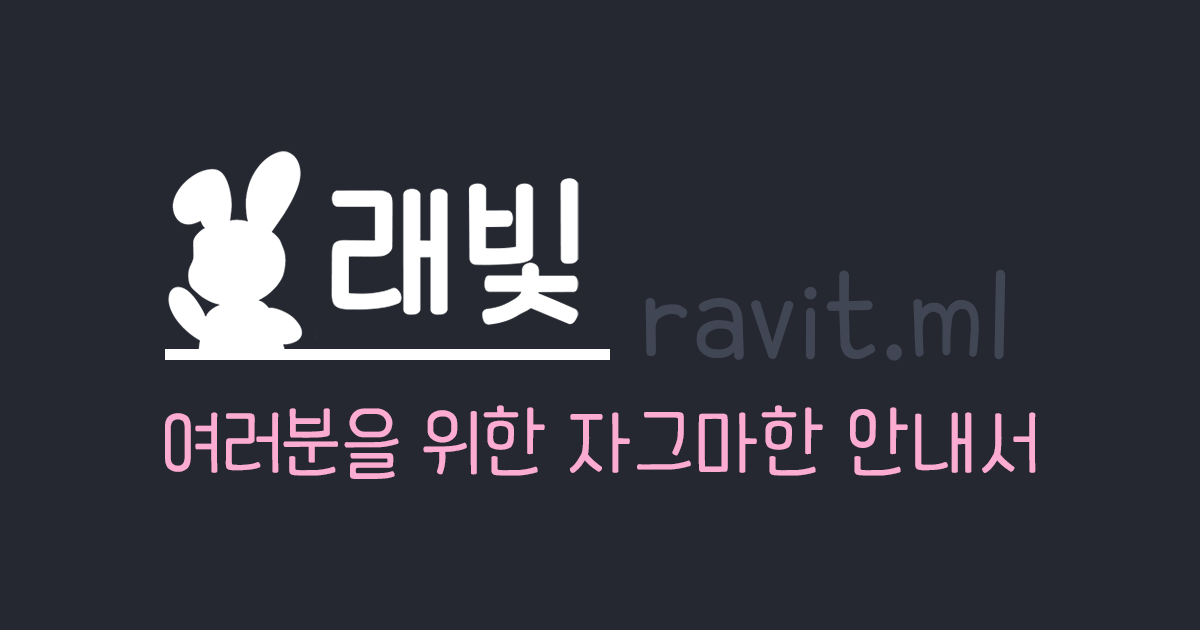
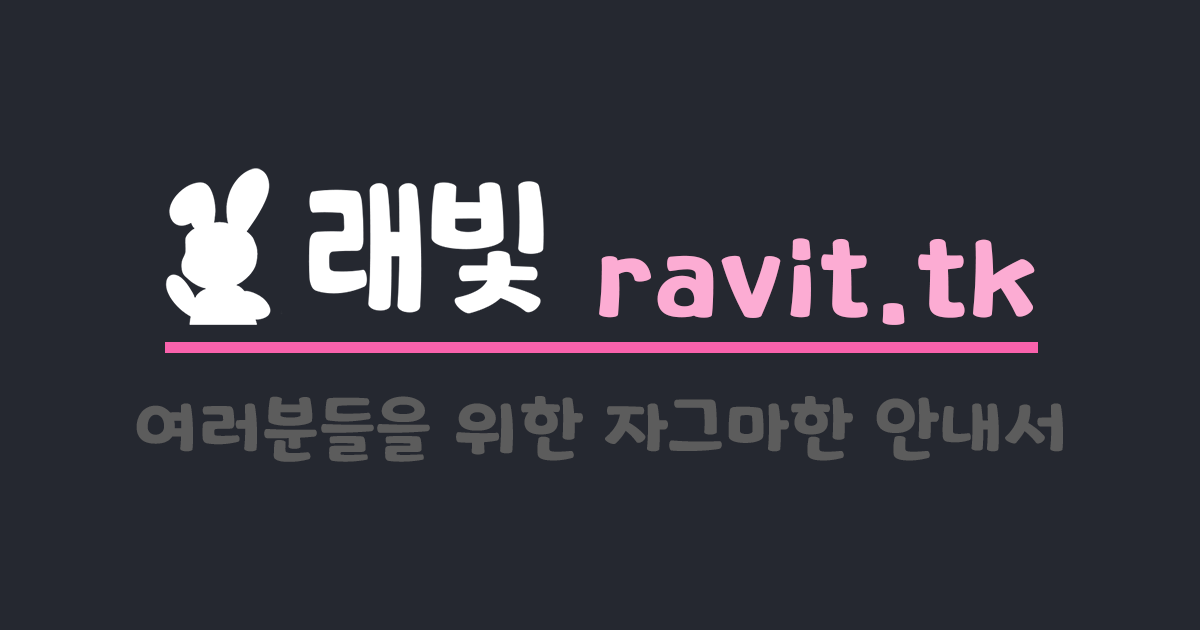
Redefined main URL to https://ravit.tk/, and 4 more...
1. Redefined main URL to https://ravit.tk/
2. Redesigned main logo and og:card
3. Removed 1 unused meta tag at index.html (google-site-verification)
4. Updated .gitignore
5. Added index_redirected.html (Same as index.html, but this page will be only used by HTTP 301 Redirections from old URL)

Changed region(s): [[0.1233, 0.2413, 0.8633, 0.573], [0.0925, 0.6333, 0.8942, 0.7841]]

diff --git a/index.html b/index.html
@@ -11,13 +11,12 @@
 		<!-- Bootstrap -->
 		<link href="css/bootstrap-4.4.1.css" rel="stylesheet">
 		
-		<meta name="viewport" content="width=device-width, initial-scale=1">
-		<meta name="google-site-verification" content="tS5vkK_QalGHgFkViv4NCSKkZWGNN3AWXqdMs-p75QE" />
+		<meta name="viewport" content="width=device-width, initial-scale=1" />
 
 		<meta property="og:title" content="래빛" />
 		<meta property="og:description" content="광운대학교에 입학하신 분들을 도와드리기 위한 안내서격 페이지입니다!" />
 		<meta property="og:image" content="./image/rabbitMainImage.png" />
-		<meta property="og:url" content="ravit.ml" />
+		<meta property="og:url" content="https://ravit.tk/" />
 		<meta property="og:type" content="website" />
 		<meta name="twitter:card" content="summary_large_image" />
 		<title>래빛: 여러분들을 위한 자그마한 안내서</title>

diff --git a/index_redirected.html b/index_redirected.html
@@ -17,7 +17,7 @@
 		<meta property="og:title" content="래빛" />
 		<meta property="og:description" content="광운대학교에 입학하신 분들을 도와드리기 위한 안내서격 페이지입니다!" />
 		<meta property="og:image" content="./image/rabbitMainImage.png" />
-		<meta property="og:url" content="ravit.ml" />
+		<meta property="og:url" content="https://ravit.tk/" />
 		<meta property="og:type" content="website" />
 		<meta name="twitter:card" content="summary_large_image" />
 		<title>래빛: 여러분들을 위한 자그마한 안내서</title>

diff --git a/404.html b/404.html
@@ -18,7 +18,7 @@ permalink: /404.html
 		<meta property="og:title" content="래빛" />
 		<meta property="og:description" content="광운대학교에 입학하신 분들을 도와드리기 위한 안내서격 페이지입니다!" />
 		<meta property="og:image" content="./image/rabbitMainImage.png" />
-		<meta property="og:url" content="ravit.ml" />
+		<meta property="og:url" content="https://ravit.tk/" />
 		<meta property="og:type" content="website" />
 		<meta name="twitter:card" content="summary_large_image" />
 

diff --git a/article_grades.html b/article_grades.html
@@ -14,7 +14,7 @@
 		<meta property="og:title" content="래빛" />
 		<meta property="og:description" content="광운대학교에 입학하신 분들을 도와드리기 위한 안내서격 페이지입니다!" />
 		<meta property="og:image" content="./image/rabbitMainImage.png" />
-		<meta property="og:url" content="ravit.ml" />
+		<meta property="og:url" content="https://ravit.tk/" />
 		<meta property="og:type" content="website" />
 		<meta name="twitter:card" content="summary_large_image" />
 

diff --git a/article_scholarship.html b/article_scholarship.html
@@ -14,7 +14,7 @@
 		<meta property="og:title" content="래빛" />
 		<meta property="og:description" content="광운대학교에 입학하신 분들을 도와드리기 위한 안내서격 페이지입니다!" />
 		<meta property="og:image" content="./image/rabbitMainImage.png" />
-		<meta property="og:url" content="ravit.ml" />
+		<meta property="og:url" content="https://ravit.tk/" />
 		<meta property="og:type" content="website" />
 		<meta name="twitter:card" content="summary_large_image" />
 

diff --git a/article_signingUp.html b/article_signingUp.html
@@ -14,7 +14,7 @@
 		<meta property="og:title" content="래빛" />
 		<meta property="og:description" content="광운대학교에 입학하신 분들을 도와드리기 위한 안내서격 페이지입니다!" />
 		<meta property="og:image" content="./image/rabbitMainImage.png" />
-		<meta property="og:url" content="ravit.ml" />
+		<meta property="og:url" content="https://ravit.tk/" />
 		<meta property="og:type" content="website" />
 		<meta name="twitter:card" content="summary_large_image" />
 

diff --git a/article_simpleTips.html b/article_simpleTips.html
@@ -14,7 +14,7 @@
 		<meta property="og:title" content="래빛" />
 		<meta property="og:description" content="광운대학교에 입학하신 분들을 도와드리기 위한 안내서격 페이지입니다!" />
 		<meta property="og:image" content="./image/rabbitMainImage.png" />
-		<meta property="og:url" content="ravit.ml" />
+		<meta property="og:url" content="https://ravit.tk/" />
 		<meta property="og:type" content="website" />
 		<meta name="twitter:card" content="summary_large_image" />
 

diff --git a/article_toGraduate.html b/article_toGraduate.html
@@ -14,7 +14,7 @@
 		<meta property="og:title" content="래빛" />
 		<meta property="og:description" content="광운대학교에 입학하신 분들을 도와드리기 위한 안내서격 페이지입니다!" />
 		<meta property="og:image" content="./image/rabbitMainImage.png" />
-		<meta property="og:url" content="ravit.ml" />
+		<meta property="og:url" content="https://ravit.tk/" />
 		<meta property="og:type" content="website" />
 		<meta name="twitter:card" content="summary_large_image" />
 

diff --git a/campusMap.html b/campusMap.html
@@ -14,7 +14,7 @@
 		<meta property="og:title" content="래빛" />
 		<meta property="og:description" content="광운대학교에 입학하신 분들을 도와드리기 위한 안내서격 페이지입니다!" />
 		<meta property="og:image" content="./image/rabbitMainImage.png" />
-		<meta property="og:url" content="ravit.ml" />
+		<meta property="og:url" content="https://ravit.tk/" />
 		<meta property="og:type" content="website" />
 		<meta name="twitter:card" content="summary_large_image" />
 

diff --git a/faq.html b/faq.html
@@ -14,7 +14,7 @@
 		<meta property="og:title" content="래빛" />
 		<meta property="og:description" content="광운대학교에 입학하신 분들을 도와드리기 위한 안내서격 페이지입니다!" />
 		<meta property="og:image" content="./image/rabbitMainImage.png" />
-		<meta property="og:url" content="ravit.ml" />
+		<meta property="og:url" content="https://ravit.tk/" />
 		<meta property="og:type" content="website" />
 		<meta name="twitter:card" content="summary_large_image" />
 

diff --git a/websites.html b/websites.html
@@ -14,7 +14,7 @@
 		<meta property="og:title" content="래빛" />
 		<meta property="og:description" content="광운대학교에 입학하신 분들을 도와드리기 위한 안내서격 페이지입니다!" />
 		<meta property="og:image" content="./image/rabbitMainImage.png" />
-		<meta property="og:url" content="ravit.ml" />
+		<meta property="og:url" content="https://ravit.tk/" />
 		<meta property="og:type" content="website" />
 		<meta name="twitter:card" content="summary_large_image" />
 
